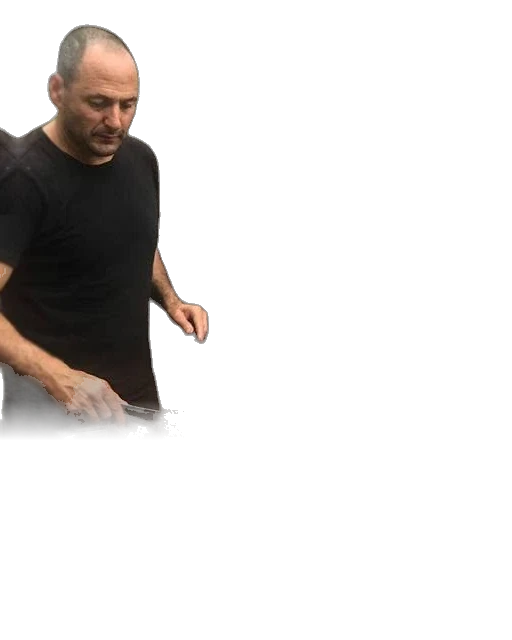
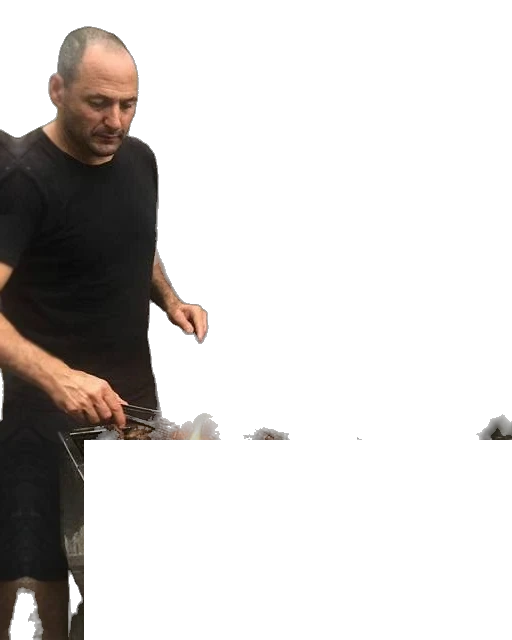
קייטרינג 4X4: תיקון היישור של שכבת הגזירה – המרפק והצד של ניסים נחשפים מחוץ למסגרת בדיוק במקומם
Claude-Session: https://claude.ai/code/session_01DbENzNwSnpCPqHoiosKMb5

diff --git a/falafel-4x4/index.html b/falafel-4x4/index.html
@@ -178,9 +178,9 @@ header{position:sticky;top:0;z-index:50;background:color-mix(in srgb,var(--paper
 .owner{background:var(--sand)}
 .owner .wrap{display:grid;grid-template-columns:.8fr 1.2fr;gap:3rem;align-items:center}
 .owner-ph{position:relative;aspect-ratio:4/5;max-width:440px;width:100%}
-.owner-ph .frame{position:absolute;top:7%;left:13%;right:0;bottom:0;border-radius:var(--r-lg);overflow:hidden;box-shadow:var(--shadow);background:var(--sand-2)}
-.owner-ph .frame img{position:absolute;top:0;left:0;width:calc(100% / .87);height:calc(100% / .93);max-width:none;object-fit:cover;transform:translate(-14.94%,-7.53%)}
-.owner-ph .cut{position:absolute;inset:0;width:100%;height:100%;object-fit:cover;pointer-events:none;filter:drop-shadow(-6px 10px 14px rgba(27,25,23,.35))}
+.owner-ph .frame{position:absolute;top:0;left:14%;right:0;bottom:0;border-radius:var(--r-lg);overflow:hidden;box-shadow:var(--shadow)}
+.owner-ph .frame img{position:absolute;top:0;left:calc(-14% / .86);width:calc(100% / .86);height:100%;max-width:none;display:block}
+.owner-ph .cut{position:absolute;inset:0;width:100%;height:100%;pointer-events:none;filter:drop-shadow(-4px 6px 10px rgba(27,25,23,.3))}
 .owner .btn{margin-top:1.4rem}
 @media (max-width:900px){.owner .wrap{grid-template-columns:1fr}.owner-ph{max-width:340px}}
 
